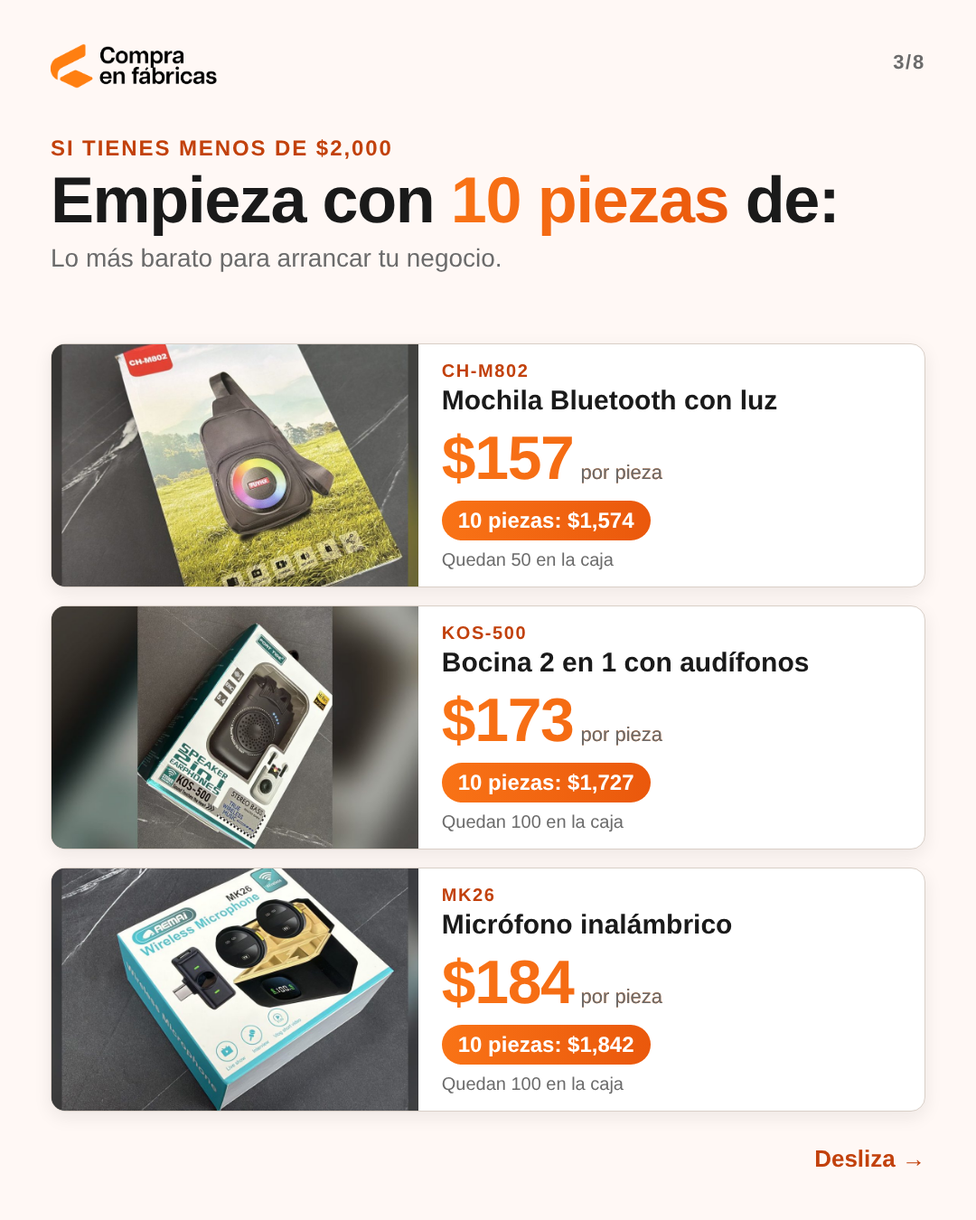
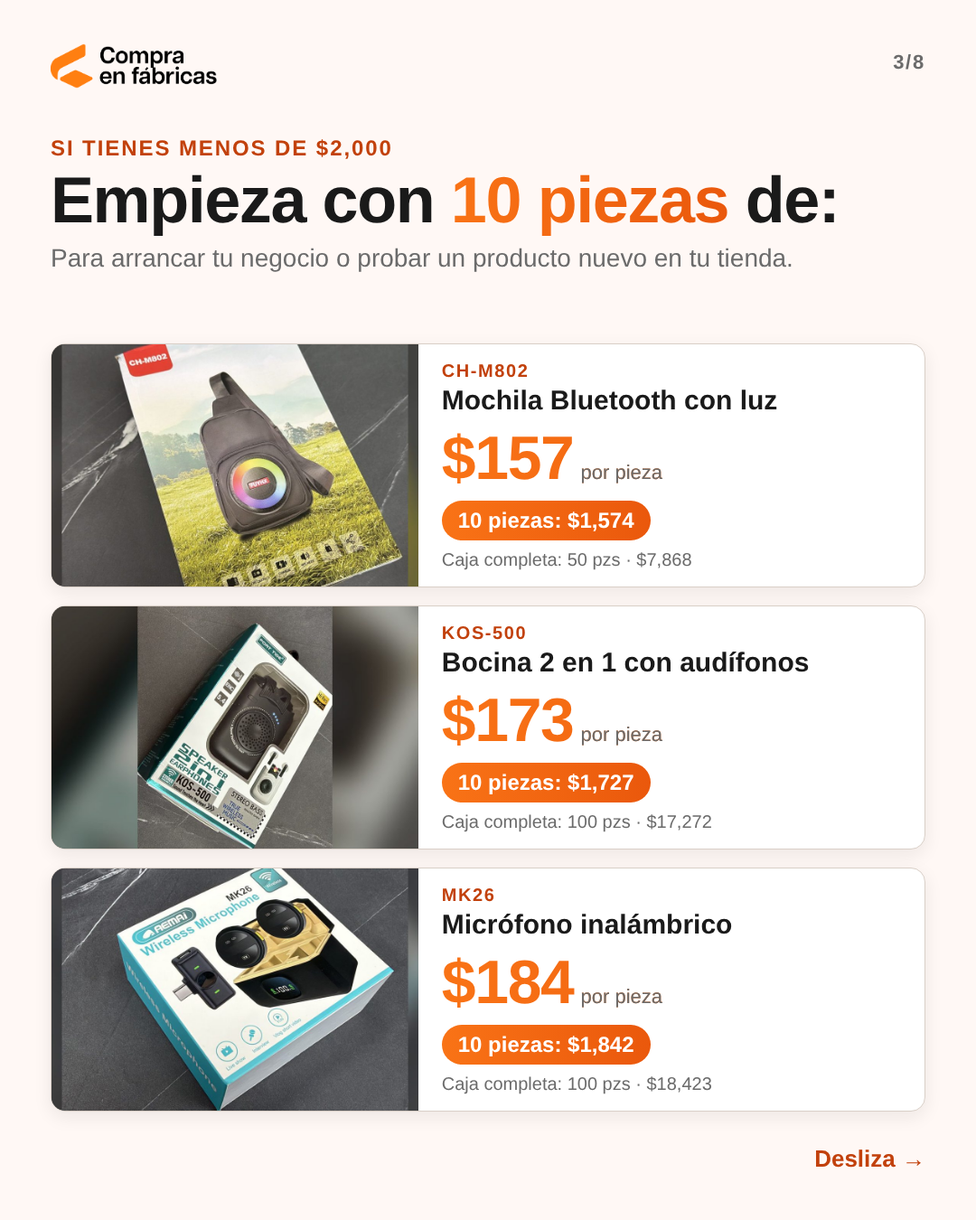
Carrusel: CTA 'Comenta CAJA', recoger en Monterrey y mejoras de la auditoría
Claude-Session: https://claude.ai/code/session_01CXaftFPXBN4xcjAX2hR1xo

diff --git a/contenido/creativos-cajas-disponibles/_K-08-cta.html b/contenido/creativos-cajas-disponibles/_K-08-cta.html
@@ -30,14 +30,14 @@ html,body{width:1080px;height:1350px}
 .mi .photo{height:150px;border-radius:12px;background-size:cover}
 .mi b{display:block;font-size:26px;font-weight:900;color:var(--n6);margin-top:6px}
 .dm{margin-top:48px;background:var(--grad);color:#fff;border-radius:24px;padding:40px 30px;box-shadow:0 8px 24px rgba(234,88,12,.3)}
-.dm .a{font-size:48px;font-weight:900;letter-spacing:-.01em}
-.dm .a span{background:#fff;color:var(--n6);border-radius:12px;padding:2px 16px;margin:0 4px}
-.dm .b{font-size:28px;margin-top:14px}
-.o{margin-top:34px;font-size:30px;line-height:1.4}.o b{color:var(--n7)}
+.dm .a{font-size:76px;font-weight:900;letter-spacing:-.01em}
+.dm .a span{background:#fff;color:var(--n6);border-radius:16px;padding:0 22px;margin:0 6px}
+.dm .b{font-size:32px;margin-top:14px}
+.o{margin-top:40px;font-size:36px;line-height:1.4}.o b{color:var(--n7)}
 .sv{margin-top:26px;font-size:26px;color:var(--gris)}
 </style></head><body><div class='num'>8/8</div><img class='lg' src='fotos/logo-horizontal.png'><div class='w'><h1>¿Cuál te <span class='grad'>llevas?</span></h1>
-<p>12 productos, mínimo 10 piezas de cada uno.</p><div class='g'><div class='mi'><div class='photo' style="background-image:url('fotos/CF-022.jpg')"></div><b>$157</b></div><div class='mi'><div class='photo' style="background-image:url('fotos/CF-017.jpg')"></div><b>$173</b></div><div class='mi'><div class='photo' style="background-image:url('fotos/CF-039.jpg')"></div><b>$184</b></div><div class='mi'><div class='photo' style="background-image:url('fotos/CF-037.jpg')"></div><b>$288</b></div><div class='mi'><div class='photo' style="background-image:url('fotos/CF-023.jpg')"></div><b>$319</b></div><div class='mi'><div class='photo' style="background-image:url('fotos/CF-018.jpg')"></div><b>$338</b></div><div class='mi'><div class='photo' style="background-image:url('fotos/CF-024.jpg')"></div><b>$338</b></div><div class='mi'><div class='photo' style="background-image:url('fotos/CF-020.jpg')"></div><b>$576</b></div><div class='mi'><div class='photo' style="background-image:url('fotos/CF-008.jpg')"></div><b>$614</b></div><div class='mi'><div class='photo' style="background-image:url('fotos/CF-001.jpg')"></div><b>$691</b></div><div class='mi'><div class='photo' style="background-image:url('fotos/CF-011.jpg')"></div><b>$1,017</b></div><div class='mi'><div class='photo' style="background-image:url('fotos/CF-007.jpg')"></div><b>$1,132</b></div></div>
-<div class='dm'><div class='a'>Mándanos DM con la palabra <span>CAJA</span></div>
-<div class='b'>Te pasamos fotos, videos y te ayudamos a apartar.</div></div>
-<div class='o'>O escríbenos por WhatsApp <b>81 2018 1761</b><br>o entra a <b>compraenfabricas.com/productos</b></div>
+<p>Para empezar tu negocio o surtir el que ya tienes.</p><div class='g'><div class='mi'><div class='photo' style="background-image:url('fotos/CF-022.jpg')"></div><b>$157</b></div><div class='mi'><div class='photo' style="background-image:url('fotos/CF-017.jpg')"></div><b>$173</b></div><div class='mi'><div class='photo' style="background-image:url('fotos/CF-039.jpg')"></div><b>$184</b></div><div class='mi'><div class='photo' style="background-image:url('fotos/CF-037.jpg')"></div><b>$288</b></div><div class='mi'><div class='photo' style="background-image:url('fotos/CF-023.jpg')"></div><b>$319</b></div><div class='mi'><div class='photo' style="background-image:url('fotos/CF-018.jpg')"></div><b>$338</b></div><div class='mi'><div class='photo' style="background-image:url('fotos/CF-024.jpg')"></div><b>$338</b></div><div class='mi'><div class='photo' style="background-image:url('fotos/CF-020.jpg')"></div><b>$576</b></div><div class='mi'><div class='photo' style="background-image:url('fotos/CF-008.jpg')"></div><b>$614</b></div><div class='mi'><div class='photo' style="background-image:url('fotos/CF-001.jpg')"></div><b>$691</b></div><div class='mi'><div class='photo' style="background-image:url('fotos/CF-011.jpg')"></div><b>$1,017</b></div><div class='mi'><div class='photo' style="background-image:url('fotos/CF-007.jpg')"></div><b>$1,132</b></div></div>
+<div class='dm'><div class='a'>Comenta <span>CAJA</span></div>
+<div class='b'>y te mandamos fotos, videos y precios de cada producto.</div></div>
+<div class='o'>¿Estás en Monterrey? <b>Pasa por tu caja.</b></div>
 <div class='sv'>Guarda este post para cuando estés listo.</div></div></body></html>

diff --git a/contenido/creativos-cajas-disponibles/_K-02-como-funciona.html b/contenido/creativos-cajas-disponibles/_K-02-como-funciona.html
@@ -24,15 +24,17 @@ html,body{width:1080px;height:1350px}
 .eyebrow{font-size:24px;font-weight:700;letter-spacing:.08em;color:var(--n7);text-transform:uppercase}
 
 .w{position:absolute;left:56px;right:56px;top:170px}
-.w h1{font-size:80px}
+.w h1{font-size:72px}
+.w .in{font-size:30px;color:var(--gris);margin-top:14px;line-height:1.35}
 .p{display:flex;gap:28px;align-items:flex-start;background:#fff;border:1px solid var(--borde);border-radius:16px;
-padding:38px 34px;margin-top:26px;box-shadow:0 6px 20px rgba(26,26,26,.06)}
-.p:first-of-type{margin-top:48px}
+padding:28px 32px;margin-top:20px;box-shadow:0 6px 20px rgba(26,26,26,.06)}
+.p:first-of-type{margin-top:34px}
 .c{flex:none;width:64px;height:64px;border-radius:50%;background:var(--grad);color:#fff;font-weight:900;font-size:32px;
 display:flex;align-items:center;justify-content:center}
 .p b{display:block;font-size:36px;line-height:1.15}.p span{display:block;font-size:28px;color:var(--gris);margin-top:8px;line-height:1.35}
 .pb{background:var(--durazno);border-left:6px solid var(--n);border-radius:12px;padding:26px 30px;margin-top:34px;
 font-size:30px;color:var(--n9)}.pb b{color:var(--n7)}
 </style></head><body><div class='num'>2/8</div><img class='lg' src='fotos/logo-horizontal.png'><div class='swipe'>Desliza →</div><div class='w'><div class='eyebrow'>Así funciona</div>
-<h1>Sin contenedor. Sin importar. <span class='grad'>Sin esperar meses.</span></h1><div class='p'><div class='c'>1</div><div><b>Eliges producto y cuántas piezas</b><span>Mínimo 10 piezas de cada caja, al mismo precio por pieza.</span></div></div><div class='p'><div class='c'>2</div><div><b>Apartas con el 20% por WhatsApp</b><span>Tienes 7 días para pagar el resto y el envío.</span></div></div><div class='p'><div class='c'>3</div><div><b>Te llega por DHL Express asegurado</b><span>Las cajas ya están en México: normalmente llega al día hábil siguiente.</span></div></div>
+<h1>Sin contenedor. Sin importar. <span class='grad'>Sin esperar meses.</span></h1>
+<div class='in'>Traemos cajas de fábricas en China y las abrimos: tú te llevas solo las piezas que necesitas.</div><div class='p'><div class='c'>1</div><div><b>Eliges producto y cuántas piezas</b><span>Mínimo 10 piezas de cada caja, al mismo precio por pieza.</span></div></div><div class='p'><div class='c'>2</div><div><b>Apartas con el 20% por WhatsApp</b><span>Tienes 7 días para pagar el resto y el envío.</span></div></div><div class='p'><div class='c'>3</div><div><b>Te llega por DHL o pasas por ella</b><span>DHL Express asegurado, normalmente al día hábil siguiente. Si estás en Monterrey, pasa por tu caja.</span></div></div>
 <div class='pb'><b>Importante:</b> hay una sola caja de cada modelo. Cuando se acaba, se acaba.</div></div></body></html>

diff --git a/contenido/creativos-cajas-disponibles/_K-03-menos-de-2000.html b/contenido/creativos-cajas-disponibles/_K-03-menos-de-2000.html
@@ -41,14 +41,14 @@ display:flex;overflow:hidden;min-height:0}
 .cj{font-size:20px;color:var(--gris);margin-top:10px}
 .g2 .tx{padding:18px 22px;justify-content:flex-start}
 .g2 .nm{font-size:25px}.g2 .pp{font-size:56px;margin-top:8px}.g2 .mn{font-size:21px;margin-top:10px}
-</style></head><body><div class='num'>3/8</div><img class='lg' src='fotos/logo-horizontal.png'><div class='swipe'>Desliza →</div><div class='w'><div class='eyebrow'>Si tienes menos de $2,000</div><h1>Empieza con <span class='grad'>10 piezas</span> de:</h1><div class='sub'>Lo más barato para arrancar tu negocio.</div></div>
+</style></head><body><div class='num'>3/8</div><img class='lg' src='fotos/logo-horizontal.png'><div class='swipe'>Desliza →</div><div class='w'><div class='eyebrow'>Si tienes menos de $2,000</div><h1>Empieza con <span class='grad'>10 piezas</span> de:</h1><div class='sub'>Para arrancar tu negocio o probar un producto nuevo en tu tienda.</div></div>
 <div class='list'><div class='card'><div class='photo ph' style="background-image:url('fotos/CF-022.jpg')"></div>
 <div class='tx'><div class='mod'>CH-M802</div><div class='nm'>Mochila Bluetooth con luz</div>
 <div class='pp grad'>$157<small>por pieza</small></div>
-<div class='mn'>10 piezas: $1,574</div><div class='cj'>Quedan 50 en la caja</div></div></div><div class='card'><div class='photo ph' style="background-image:url('fotos/CF-017.jpg')"></div>
+<div class='mn'>10 piezas: $1,574</div><div class='cj'>Caja completa: 50 pzs · $7,868</div></div></div><div class='card'><div class='photo ph' style="background-image:url('fotos/CF-017.jpg')"></div>
 <div class='tx'><div class='mod'>KOS-500</div><div class='nm'>Bocina 2 en 1 con audífonos</div>
 <div class='pp grad'>$173<small>por pieza</small></div>
-<div class='mn'>10 piezas: $1,727</div><div class='cj'>Quedan 100 en la caja</div></div></div><div class='card'><div class='photo ph' style="background-image:url('fotos/CF-039.jpg')"></div>
+<div class='mn'>10 piezas: $1,727</div><div class='cj'>Caja completa: 100 pzs · $17,272</div></div></div><div class='card'><div class='photo ph' style="background-image:url('fotos/CF-039.jpg')"></div>
 <div class='tx'><div class='mod'>MK26</div><div class='nm'>Micrófono inalámbrico</div>
 <div class='pp grad'>$184<small>por pieza</small></div>
-<div class='mn'>10 piezas: $1,842</div><div class='cj'>Quedan 100 en la caja</div></div></div></div></body></html>
+<div class='mn'>10 piezas: $1,842</div><div class='cj'>Caja completa: 100 pzs · $18,423</div></div></div></div></body></html>

diff --git a/contenido/creativos-cajas-disponibles/_K-04-menos-de-3500.html b/contenido/creativos-cajas-disponibles/_K-04-menos-de-3500.html
@@ -45,13 +45,13 @@ display:flex;overflow:hidden;min-height:0}
 <div class='list g2'><div class='card'><div class='photo ph' style="background-image:url('fotos/CF-037.jpg')"></div>
 <div class='tx'><div class='mod'>MK50</div><div class='nm'>Micrófono inalámbrico</div>
 <div class='pp grad'>$288<small>por pieza</small></div>
-<div class='mn'>10 piezas: $2,879</div><div class='cj'>Quedan 100 en la caja</div></div></div><div class='card'><div class='photo ph' style="background-image:url('fotos/CF-023.jpg')"></div>
+<div class='mn'>10 piezas: $2,879</div><div class='cj'>Caja completa: 100 pzs · $28,786</div></div></div><div class='card'><div class='photo ph' style="background-image:url('fotos/CF-023.jpg')"></div>
 <div class='tx'><div class='mod'>MS18</div><div class='nm'>Micrófono</div>
 <div class='pp grad'>$319<small>por pieza</small></div>
-<div class='mn'>10 piezas: $3,186</div><div class='cj'>Quedan 50 en la caja</div></div></div><div class='card'><div class='photo ph' style="background-image:url('fotos/CF-018.jpg')"></div>
+<div class='mn'>10 piezas: $3,186</div><div class='cj'>Caja completa: 50 pzs · $15,928</div></div></div><div class='card'><div class='photo ph' style="background-image:url('fotos/CF-018.jpg')"></div>
 <div class='tx'><div class='mod'>D8</div><div class='nm'>Cámara para auto (dashcam)</div>
 <div class='pp grad'>$338<small>por pieza</small></div>
-<div class='mn'>10 piezas: $3,378</div><div class='cj'>Quedan 100 en la caja</div></div></div><div class='card'><div class='photo ph' style="background-image:url('fotos/CF-024.jpg')"></div>
+<div class='mn'>10 piezas: $3,378</div><div class='cj'>Caja completa: 100 pzs · $33,776</div></div></div><div class='card'><div class='photo ph' style="background-image:url('fotos/CF-024.jpg')"></div>
 <div class='tx'><div class='mod'>QY77</div><div class='nm'>Micrófono 4 en 1</div>
 <div class='pp grad'>$338<small>por pieza</small></div>
-<div class='mn'>10 piezas: $3,378</div><div class='cj'>Quedan 100 en la caja</div></div></div></div></body></html>
+<div class='mn'>10 piezas: $3,378</div><div class='cj'>Caja completa: 100 pzs · $33,776</div></div></div></div></body></html>

diff --git a/contenido/creativos-cajas-disponibles/_K-05-menos-de-7000.html b/contenido/creativos-cajas-disponibles/_K-05-menos-de-7000.html
@@ -45,10 +45,10 @@ display:flex;overflow:hidden;min-height:0}
 <div class='list'><div class='card'><div class='photo ph' style="background-image:url('fotos/CF-020.jpg')"></div>
 <div class='tx'><div class='mod'>F118</div><div class='nm'>Ventilador multifunción</div>
 <div class='pp grad'>$576<small>por pieza</small></div>
-<div class='mn'>10 piezas: $5,757</div><div class='cj'>Quedan 16 en la caja</div></div></div><div class='card'><div class='photo ph' style="background-image:url('fotos/CF-008.jpg')"></div>
+<div class='mn'>10 piezas: $5,757</div><div class='cj'>Caja completa: 16 pzs · $9,212</div></div></div><div class='card'><div class='photo ph' style="background-image:url('fotos/CF-008.jpg')"></div>
 <div class='tx'><div class='mod'>Q8</div><div class='nm'>Cámara deportiva</div>
 <div class='pp grad'>$614<small>por pieza</small></div>
-<div class='mn'>10 piezas: $6,141</div><div class='cj'>Quedan 40 en la caja</div></div></div><div class='card'><div class='photo ph' style="background-image:url('fotos/CF-001.jpg')"></div>
+<div class='mn'>10 piezas: $6,141</div><div class='cj'>Caja completa: 40 pzs · $24,564</div></div></div><div class='card'><div class='photo ph' style="background-image:url('fotos/CF-001.jpg')"></div>
 <div class='tx'><div class='mod'>TK70</div><div class='nm'>Reloj inteligente</div>
 <div class='pp grad'>$691<small>por pieza</small></div>
-<div class='mn'>10 piezas: $6,909</div><div class='cj'>Quedan 50 en la caja</div></div></div></div></body></html>
+<div class='mn'>10 piezas: $6,909</div><div class='cj'>Caja completa: 50 pzs · $34,544</div></div></div></div></body></html>

diff --git a/contenido/creativos-cajas-disponibles/_K-07-confianza.html b/contenido/creativos-cajas-disponibles/_K-07-confianza.html
@@ -32,5 +32,5 @@ html,body{width:1080px;height:1350px}
 display:flex;align-items:center;justify-content:center}
 .sello{position:absolute;right:70px;bottom:120px;width:190px;transform:rotate(-8deg);opacity:.95}
 </style></head><body><div class='num'>7/8</div><img class='lg' src='fotos/logo-horizontal.png'><div class='swipe'>Desliza →</div><div class='w'><div class='eyebrow'>Compra con confianza</div>
-<h1>¿Cómo sé que <span class='grad'>es real?</span></h1><div class='box'><div class='ck'><span>✓</span>Te hacemos un acuerdo de compra por escrito.</div><div class='ck'><span>✓</span>Recibos de cada pago con nuestro sello oficial.</div><div class='ck'><span>✓</span>Te mandamos videos de tu pedido y hacemos videollamada contigo.</div><div class='ck'><span>✓</span>Estamos en Monterrey, N.L.</div><div class='ck'><span>✓</span>No usamos pago contra entrega.</div></div></div>
+<h1>¿Cómo sé que <span class='grad'>es real?</span></h1><div class='box'><div class='ck'><span>✓</span>Te hacemos un acuerdo de compra por escrito.</div><div class='ck'><span>✓</span>Recibos de cada pago con nuestro sello oficial.</div><div class='ck'><span>✓</span>Te mandamos videos de tu pedido y hacemos videollamada contigo.</div><div class='ck'><span>✓</span>Estamos en Monterrey, N.L. Puedes pasar por tu caja.</div><div class='ck'><span>✓</span>No usamos pago contra entrega.</div></div></div>
 <img class='sello' src='fotos/sello.png'></body></html>

diff --git a/contenido/creativos-cajas-disponibles/_K-01e-portada-excusas-primero.html b/contenido/creativos-cajas-disponibles/_K-01e-portada-excusas-primero.html
@@ -33,5 +33,5 @@ html,body{width:1080px;height:1350px}
 .bot h1{font-size:136px;letter-spacing:-.04em;line-height:.98}
 .oks{display:flex;flex-wrap:wrap;gap:12px;margin-top:28px}
 .oks span{background:#fff;border:2px solid var(--n);color:var(--n7);font-weight:700;font-size:27px;border-radius:999px;padding:10px 22px}
-</style></head><body><div class='num'>1/8</div><img class='lg' src='fotos/logo-horizontal.png'><div class='swipe'>Desliza →</div><div class='top'></div><div class='lab'>TUS EXCUSAS:</div><div class='xs'><div class='x'>No tengo capital</div><div class='x'>Importar es complicado</div><div class='x'>Tarda meses en llegar</div></div>
+</style></head><body><div class='num'>1/8</div><img class='lg' src='fotos/logo-horizontal.png'><div class='swipe'>Desliza →</div><div class='top'></div><div class='lab'>TUS EXCUSAS PARA EMPEZAR UN NEGOCIO:</div><div class='xs'><div class='x'>No tengo capital</div><div class='x'>Importar es complicado</div><div class='x'>Tarda meses en llegar</div></div>
 <div class='bot'><h1>Ya no <span class='grad'>aplican.</span></h1><div class='oks'><span>✓ 10 piezas desde $1,574</span><span>✓ Ya están en México</span><span>✓ DHL al día hábil siguiente</span></div></div></body></html>

diff --git a/contenido/creativos-cajas-disponibles/_K-06-para-ir-en-grande.html b/contenido/creativos-cajas-disponibles/_K-06-para-ir-en-grande.html
@@ -45,7 +45,7 @@ display:flex;overflow:hidden;min-height:0}
 <div class='list'><div class='card'><div class='photo ph' style="background-image:url('fotos/CF-011.jpg')"></div>
 <div class='tx'><div class='mod'>S85 Pro</div><div class='nm'>Traductor con IA</div>
 <div class='pp grad'>$1,017<small>por pieza</small></div>
-<div class='mn'>10 piezas: $10,171</div><div class='cj'>Quedan 100 en la caja</div></div></div><div class='card'><div class='photo ph' style="background-image:url('fotos/CF-007.jpg')"></div>
+<div class='mn'>10 piezas: $10,171</div><div class='cj'>Caja completa: 100 pzs · $101,712</div></div></div><div class='card'><div class='photo ph' style="background-image:url('fotos/CF-007.jpg')"></div>
 <div class='tx'><div class='mod'>Pocket 4K</div><div class='nm'>Cámara de bolsillo 4K</div>
 <div class='pp grad'>$1,132<small>por pieza</small></div>
-<div class='mn'>10 piezas: $11,323</div><div class='cj'>Quedan 40 en la caja</div></div></div></div></body></html>
+<div class='mn'>10 piezas: $11,323</div><div class='cj'>Caja completa: 40 pzs · $45,290</div></div></div></div></body></html>

diff --git a/contenido/creativos-cajas-disponibles/carrusel.py b/contenido/creativos-cajas-disponibles/carrusel.py
@@ -143,7 +143,7 @@ def exc_primero():
 .oks{display:flex;flex-wrap:wrap;gap:12px;margin-top:28px}
 .oks span{background:#fff;border:2px solid var(--n);color:var(--n7);font-weight:700;font-size:27px;border-radius:999px;padding:10px 22px}
 """
-    body = f"""<div class='top'></div><div class='lab'>TUS EXCUSAS:</div><div class='xs'>{xs}</div>
+    body = f"""<div class='top'></div><div class='lab'>TUS EXCUSAS PARA EMPEZAR UN NEGOCIO:</div><div class='xs'>{xs}</div>
 <div class='bot'><h1>Ya no <span class='grad'>aplican.</span></h1><div class='oks'>{oks}</div></div>"""
     return slide(1, body, extra)
 
@@ -173,16 +173,17 @@ def s2():
     pasos = [
         ("Eliges producto y cuántas piezas", "Mínimo 10 piezas de cada caja, al mismo precio por pieza."),
         ("Apartas con el 20% por WhatsApp", "Tienes 7 días para pagar el resto y el envío."),
-        ("Te llega por DHL Express asegurado", "Las cajas ya están en México: normalmente llega al día hábil siguiente."),
+        ("Te llega por DHL o pasas por ella", "DHL Express asegurado, normalmente al día hábil siguiente. Si estás en Monterrey, pasa por tu caja."),
     ]
     items = "".join(f"<div class='p'><div class='c'>{i}</div><div><b>{t}</b><span>{d}</span></div></div>"
                     for i, (t, d) in enumerate(pasos, 1))
     extra = """
 .w{position:absolute;left:56px;right:56px;top:170px}
-.w h1{font-size:80px}
+.w h1{font-size:72px}
+.w .in{font-size:30px;color:var(--gris);margin-top:14px;line-height:1.35}
 .p{display:flex;gap:28px;align-items:flex-start;background:#fff;border:1px solid var(--borde);border-radius:16px;
-padding:38px 34px;margin-top:26px;box-shadow:0 6px 20px rgba(26,26,26,.06)}
-.p:first-of-type{margin-top:48px}
+padding:28px 32px;margin-top:20px;box-shadow:0 6px 20px rgba(26,26,26,.06)}
+.p:first-of-type{margin-top:34px}
 .c{flex:none;width:64px;height:64px;border-radius:50%;background:var(--grad);color:#fff;font-weight:900;font-size:32px;
 display:flex;align-items:center;justify-content:center}
 .p b{display:block;font-size:36px;line-height:1.15}.p span{display:block;font-size:28px;color:var(--gris);margin-top:8px;line-height:1.35}
@@ -190,7 +191,8 @@ display:flex;align-items:center;justify-content:center}
 font-size:30px;color:var(--n9)}.pb b{color:var(--n7)}
 """
     body = f"""<div class='w'><div class='eyebrow'>Así funciona</div>
-<h1>Sin contenedor. Sin importar. <span class='grad'>Sin esperar meses.</span></h1>{items}
+<h1>Sin contenedor. Sin importar. <span class='grad'>Sin esperar meses.</span></h1>
+<div class='in'>Traemos cajas de fábricas en China y las abrimos: tú te llevas solo las piezas que necesitas.</div>{items}
 <div class='pb'><b>Importante:</b> hay una sola caja de cada modelo. Cuando se acaba, se acaba.</div></div>"""
     return slide(2, body, extra)
 
@@ -220,7 +222,7 @@ def card(d):
     return f"""<div class='card'><div class='photo ph' style="background-image:url('{foto(d['code'])}')"></div>
 <div class='tx'><div class='mod'>{d['model']}</div><div class='nm'>{d['name']}</div>
 <div class='pp grad'>{d['pp']}<small>por pieza</small></div>
-<div class='mn'>10 piezas: {d['min']}</div><div class='cj'>Quedan {d['pz']} en la caja</div></div></div>"""
+<div class='mn'>10 piezas: {d['min']}</div><div class='cj'>Caja completa: {d['pz']} pzs · {d['total']}</div></div></div>"""
 
 def tier(n, eyebrow, titulo, sub, items):
     cls = "list g2" if len(items) == 4 else "list"
@@ -234,7 +236,7 @@ def s7():
         "Te hacemos un acuerdo de compra por escrito.",
         "Recibos de cada pago con nuestro sello oficial.",
         "Te mandamos videos de tu pedido y hacemos videollamada contigo.",
-        "Estamos en Monterrey, N.L.",
+        "Estamos en Monterrey, N.L. Puedes pasar por tu caja.",
         "No usamos pago contra entrega.",
     ]
     items = "".join(f"<div class='ck'><span>✓</span>{p}</div>" for p in pts)
@@ -264,17 +266,17 @@ def s8():
 .mi .photo{height:150px;border-radius:12px;background-size:cover}
 .mi b{display:block;font-size:26px;font-weight:900;color:var(--n6);margin-top:6px}
 .dm{margin-top:48px;background:var(--grad);color:#fff;border-radius:24px;padding:40px 30px;box-shadow:0 8px 24px rgba(234,88,12,.3)}
-.dm .a{font-size:48px;font-weight:900;letter-spacing:-.01em}
-.dm .a span{background:#fff;color:var(--n6);border-radius:12px;padding:2px 16px;margin:0 4px}
-.dm .b{font-size:28px;margin-top:14px}
-.o{margin-top:34px;font-size:30px;line-height:1.4}.o b{color:var(--n7)}
+.dm .a{font-size:76px;font-weight:900;letter-spacing:-.01em}
+.dm .a span{background:#fff;color:var(--n6);border-radius:16px;padding:0 22px;margin:0 6px}
+.dm .b{font-size:32px;margin-top:14px}
+.o{margin-top:40px;font-size:36px;line-height:1.4}.o b{color:var(--n7)}
 .sv{margin-top:26px;font-size:26px;color:var(--gris)}
 """
     body = f"""<div class='w'><h1>¿Cuál te <span class='grad'>llevas?</span></h1>
-<p>12 productos, mínimo 10 piezas de cada uno.</p><div class='g'>{mini}</div>
-<div class='dm'><div class='a'>Mándanos DM con la palabra <span>CAJA</span></div>
-<div class='b'>Te pasamos fotos, videos y te ayudamos a apartar.</div></div>
-<div class='o'>O escríbenos por WhatsApp <b>81 2018 1761</b><br>o entra a <b>compraenfabricas.com/productos</b></div>
+<p>Para empezar tu negocio o surtir el que ya tienes.</p><div class='g'>{mini}</div>
+<div class='dm'><div class='a'>Comenta <span>CAJA</span></div>
+<div class='b'>y te mandamos fotos, videos y precios de cada producto.</div></div>
+<div class='o'>¿Estás en Monterrey? <b>Pasa por tu caja.</b></div>
 <div class='sv'>Guarda este post para cuando estés listo.</div></div>"""
     return slide(8, body, extra, swipe=False)
 
@@ -287,7 +289,7 @@ if __name__ == "__main__":
         "K-01e-portada-excusas-primero": exc_primero(),
         "K-01f-portada-marcador": exc_marcador(),
         "K-02-como-funciona": s2(),
-        "K-03-menos-de-2000": tier(3, "Si tienes menos de $2,000", "Empieza con <span class='grad'>10 piezas</span> de:", "Lo más barato para arrancar tu negocio.", tramo(0, 2000)),
+        "K-03-menos-de-2000": tier(3, "Si tienes menos de $2,000", "Empieza con <span class='grad'>10 piezas</span> de:", "Para arrancar tu negocio o probar un producto nuevo en tu tienda.", tramo(0, 2000)),
         "K-04-menos-de-3500": tier(4, "Si tienes menos de $3,500", "Micrófonos y <span class='grad'>dashcam</span>", "Para creadores de contenido y conductores.", tramo(2000, 3500)),
         "K-05-menos-de-7000": tier(5, "Si tienes menos de $7,000", "Ventilador, cámara <span class='grad'>y reloj</span>", "Productos de mayor valor por pieza.", tramo(3500, 7000)),
         "K-06-para-ir-en-grande": tier(6, "Para ir en grande", "Lo más <span class='grad'>premium</span>", "Traductor con IA y cámara de bolsillo 4K.", tramo(7000, 10**9)),

diff --git a/contenido/creativos-cajas-disponibles/carrusel-caption.md b/contenido/creativos-cajas-disponibles/carrusel-caption.md
@@ -1,32 +1,24 @@
 # Caption para Instagram (carrusel de cajas disponibles)
 
-Portada: usa `01-hook.png` o una de las versiones del hook "Ya no tienes excusa" (`01b-hook-excusa-productos.png`, `01c-hook-excusa-chat.png`) y luego las láminas 02 a 08. Si usas la de "excusa", cambia la primera línea del texto por la versión de abajo.
+Orden: portada `01e-portada-excusas-primero.png` (recomendada; las otras portadas son alternativas) y luego `02` a `08`.
 
-## Primera línea con el hook "Ya no tienes excusa"
+---
 
-Ya no tienes excusa para no empezar tu negocio 🇨🇳
+¿Sigues esperando "el momento" para empezar tu negocio? 🇨🇳
 
-## Texto
-
-Tu primer inventario por menos de $2,000 🇨🇳
-
-Tenemos 12 cajas de electrónica directo de fábrica china que ya están en México. No necesitas comprar la caja completa: te llevas desde 10 piezas de cada producto, al mismo precio por pieza.
+Traemos cajas de electrónica directo de fábricas en China y las abrimos para que te lleves solo lo que necesitas: desde 10 piezas de cada producto, al mismo precio por pieza.
 
 📦 Mochila Bluetooth desde $157 por pieza
 🎤 Micrófonos inalámbricos desde $184
 🚗 Cámara para auto desde $338
 ⌚ Reloj, cámaras, traductor con IA y más
 
-Así funciona:
-1. Eliges producto y cuántas piezas (mínimo 10)
-2. Apartas con el 20% por WhatsApp
-3. Te llega por DHL Express asegurado
+Ya están en México. Te llegan por DHL Express asegurado y, si estás en Monterrey, puedes pasar por tu caja.
 
 Hay una sola caja de cada modelo. Cuando se acaba, se acaba.
 
-👉 Mándanos DM con la palabra CAJA y te pasamos fotos y videos.
-También por WhatsApp 81 2018 1761 o en compraenfabricas.com/productos
+👇 Comenta CAJA y te mandamos fotos, videos y precios de cada producto.
 
-Guárdalo para cuando estés listo.
+Sirve para empezar tu negocio o para surtir el que ya tienes. Guárdalo para cuando estés listo.
 
-#importardechina #compraenfabricas #negociodesdecasa #emprendedoresmexicanos #mayoreo #electronica #productosdechina #emprender #reventa #inventario
+#importardechina #compraenfabricas #negociodesdecasa #emprendedoresmexicanos #mayoreo #electronica #productosdechina #emprender #reventa #monterrey
